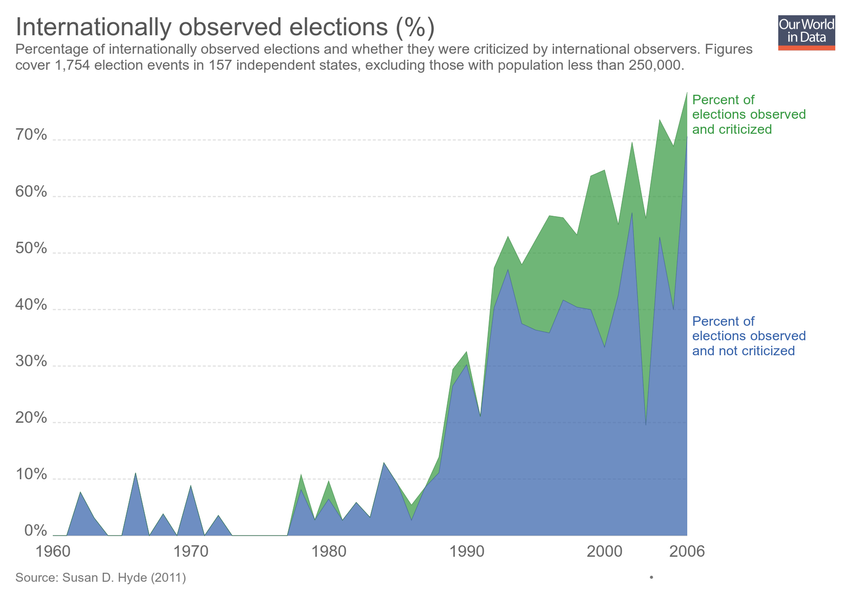
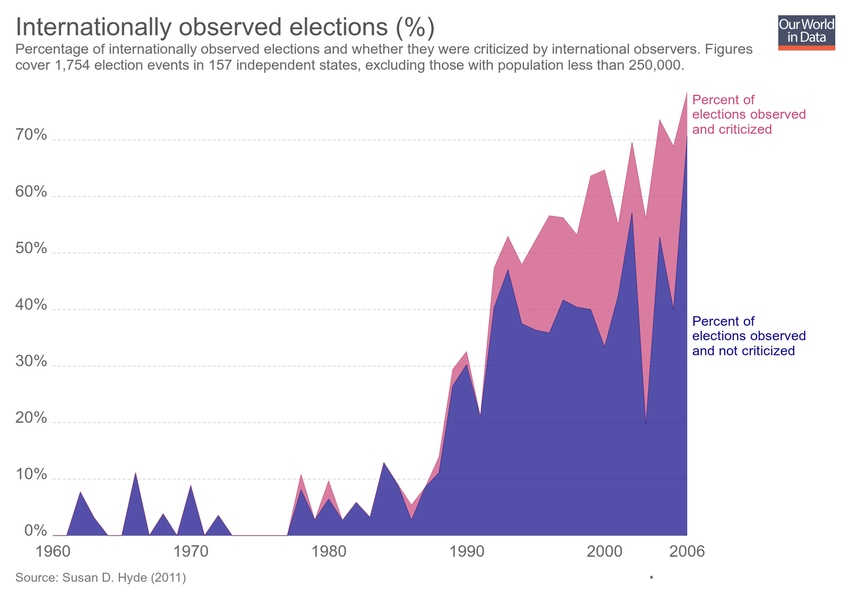
Deleting chart rate-of-internationally-observed-elections

Changed region(s): [[0.3365, 0.15, 0.9482, 0.9], [0.0612, 0.78, 0.2753, 0.9]]

diff --git a/grapher/rate-of-internationally-observed-elections.html b/grapher/rate-of-internationally-observed-elections.html
@@ -1,4 +1,4 @@
-<!doctype html><html><head><meta name="viewport" content="width=device-width, initial-scale=1" /><title>Internationally observed elections (%) - Our World in Data</title><meta name="description" content="Percentage of internationally observed elections and whether they were criticized by international observers. Figures cover 1,754 election events in 157 independent states, excluding those with population less than 250,000." /><link rel="canonical" href="https://ourworldindata.org/grapher/rate-of-internationally-observed-elections" /><meta property="fb:app_id" content="1149943818390250" /><meta property="og:url" content="https://ourworldindata.org/grapher/rate-of-internationally-observed-elections" /><meta property="og:title" content="Internationally observed elections (%)" /><meta property="og:description" content="Percentage of internationally observed elections and whether they were criticized by international observers. Figures cover 1,754 election events in 157 independent states, excluding those with population less than 250,000." /><meta property="og:image" content="https://ourworldindata.org/grapher/exports/rate-of-internationally-observed-elections.png?v=1" /><meta property="og:image:width" content="850" /><meta property="og:image:height" content="600" /><meta property="og:site_name" content="Our World in Data" /><meta name="twitter:card" content="summary_large_image" /><meta name="twitter:site" content="@OurWorldInData" /><meta name="twitter:creator" content="@OurWorldInData" /><meta name="twitter:title" content="Internationally observed elections (%)" /><meta name="twitter:description" content="Percentage of internationally observed elections and whether they were criticized by international observers. Figures cover 1,754 election events in 157 independent states, excluding those with population less than 250,000." /><meta name="twitter:image" content="https://ourworldindata.org/grapher/exports/rate-of-internationally-observed-elections.png?v=1" /><style>
+<!doctype html><html><head><meta name="viewport" content="width=device-width, initial-scale=1" /><title>Internationally observed elections (%) - Our World in Data</title><meta name="description" content="Percentage of internationally observed elections and whether they were criticized by international observers. Figures cover 1,754 election events in 157 independent states, excluding those with population less than 250,000." /><link rel="canonical" href="https://ourworldindata.org/grapher/rate-of-internationally-observed-elections" /><meta property="fb:app_id" content="1149943818390250" /><meta property="og:url" content="https://ourworldindata.org/grapher/rate-of-internationally-observed-elections" /><meta property="og:title" content="Internationally observed elections (%)" /><meta property="og:description" content="Percentage of internationally observed elections and whether they were criticized by international observers. Figures cover 1,754 election events in 157 independent states, excluding those with population less than 250,000." /><meta property="og:image" content="https://ourworldindata.org/grapher/exports/rate-of-internationally-observed-elections.png?v=19" /><meta property="og:image:width" content="850" /><meta property="og:image:height" content="600" /><meta property="og:site_name" content="Our World in Data" /><meta name="twitter:card" content="summary_large_image" /><meta name="twitter:site" content="@OurWorldInData" /><meta name="twitter:creator" content="@OurWorldInData" /><meta name="twitter:title" content="Internationally observed elections (%)" /><meta name="twitter:description" content="Percentage of internationally observed elections and whether they were criticized by international observers. Figures cover 1,754 election events in 157 independent states, excluding those with population less than 250,000." /><meta name="twitter:image" content="https://ourworldindata.org/grapher/exports/rate-of-internationally-observed-elections.png?v=19" /><style>
         html, body {
             height: 100%;
             margin: 0;
@@ -20,8 +20,8 @@
         }
     </style><noscript><style>
                     figure { display: none !important; }
-                </style></noscript><link rel="stylesheet" href="https://ourworldindata.org/grapher/assets/commons.bundle.71d8db26355e6ca03ae0.css" /><link rel="preload" href="/grapher/data/variables/97378+97379.json?v=1" as="fetch" crossorigin /></head><body class="singleChart"><figure data-grapher-src="/grapher/rate-of-internationally-observed-elections"></figure><noscript id="fallback"><img src="/grapher/exports/rate-of-internationally-observed-elections.svg" /><p>Interactive visualization requires JavaScript</p></noscript><script src="https://cdn.polyfill.io/v2/polyfill.min.js?features=es6,fetch"></script><script src="https://ourworldindata.org/grapher/assets/commons.bundle.71d8db26355e6ca03ae0.js"></script><script src="https://ourworldindata.org/grapher/assets/charts.bundle.dcf65b68eddaba4c6a58.js"></script><script>
-        var jsonConfig = {"map":{"projection":"World","colorSchemeLabels":[],"colorSchemeValues":[],"customNumericColors":[],"customCategoryColors":{},"customCategoryLabels":{},"customHiddenCategories":{}},"tab":"chart","slug":"rate-of-internationally-observed-elections","type":"StackedArea","title":"Internationally observed elections (%)","xAxis":{"scaleType":"linear"},"yAxis":{"min":0,"scaleType":"linear"},"version":1,"subtitle":"Percentage of internationally observed elections and whether they were criticized by international observers. Figures cover 1,754 election events in 157 independent states, excluding those with population less than 250,000.","hasMapTab":false,"stackMode":"absolute","dimensions":[{"display":{"name":"Percent of elections observed and criticized"},"property":"y","variableId":97378},{"display":{"name":"Percent of elections observed and not criticized"},"property":"y","variableId":97379}],"hasChartTab":true,"isPublished":true,"selectedData":[{"index":0,"entityId":355},{"index":1,"entityId":355}],"addCountryMode":"change-country","hideTitleAnnotation":true,"id":2612};
+                </style></noscript><link rel="stylesheet" href="https://ourworldindata.org/grapher/assets/commons.bundle.71d8db26355e6ca03ae0.css" /><link rel="preload" href="/grapher/data/variables/97378+97379.json?v=19" as="fetch" crossorigin /></head><body class="singleChart"><figure data-grapher-src="/grapher/rate-of-internationally-observed-elections"></figure><noscript id="fallback"><img src="/grapher/exports/rate-of-internationally-observed-elections.svg" /><p>Interactive visualization requires JavaScript</p></noscript><script src="https://cdn.polyfill.io/v2/polyfill.min.js?features=es6,fetch"></script><script src="https://ourworldindata.org/grapher/assets/commons.bundle.71d8db26355e6ca03ae0.js"></script><script src="https://ourworldindata.org/grapher/assets/charts.bundle.dcf65b68eddaba4c6a58.js"></script><script>
+        var jsonConfig = {"id":2589,"map":{"projection":"World","colorSchemeLabels":[],"colorSchemeValues":[],"colorSchemeMinValue":0,"customNumericColors":[],"customCategoryColors":{},"customCategoryLabels":{},"customHiddenCategories":{}},"tab":"chart","slug":"rate-of-internationally-observed-elections","type":"StackedArea","title":"Internationally observed elections (%)","xAxis":{"scaleType":"linear"},"yAxis":{"max":80,"min":0,"scaleType":"linear"},"version":19,"subtitle":"Percentage of internationally observed elections and whether they were criticized by international observers. Figures cover 1,754 election events in 157 independent states, excluding those with population less than 250,000.","hasMapTab":false,"stackMode":"absolute","dimensions":[{"display":{"name":"Percent of elections observed and criticized","unit":"%"},"property":"y","variableId":97378},{"display":{"name":"Percent of elections observed and not criticized"},"property":"y","variableId":97379}],"hasChartTab":true,"isPublished":true,"selectedData":[{"index":0,"entityId":355},{"index":1,"entityId":355}],"addCountryMode":"change-country","baseColorScheme":"Plasma","hideRelativeToggle":true,"hideTitleAnnotation":true};
         var figure = document.getElementsByTagName("figure")[0];
         try {
             window.App = {};
